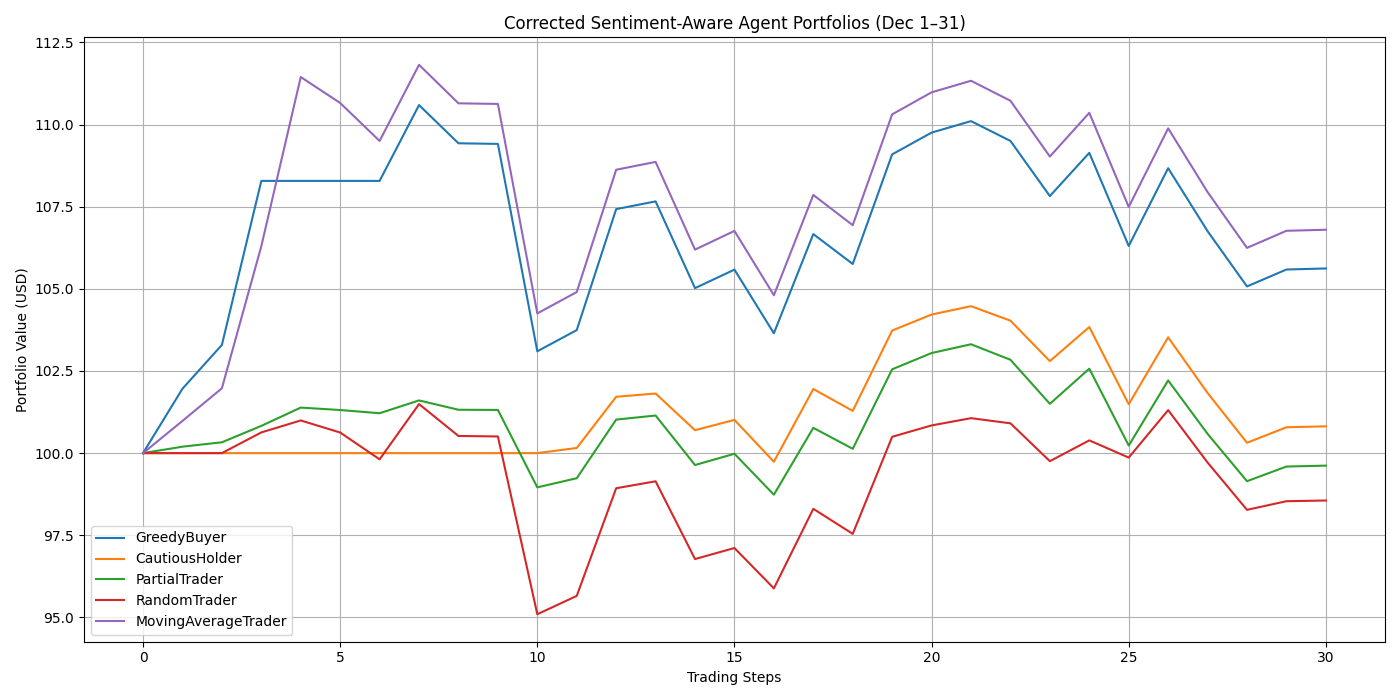
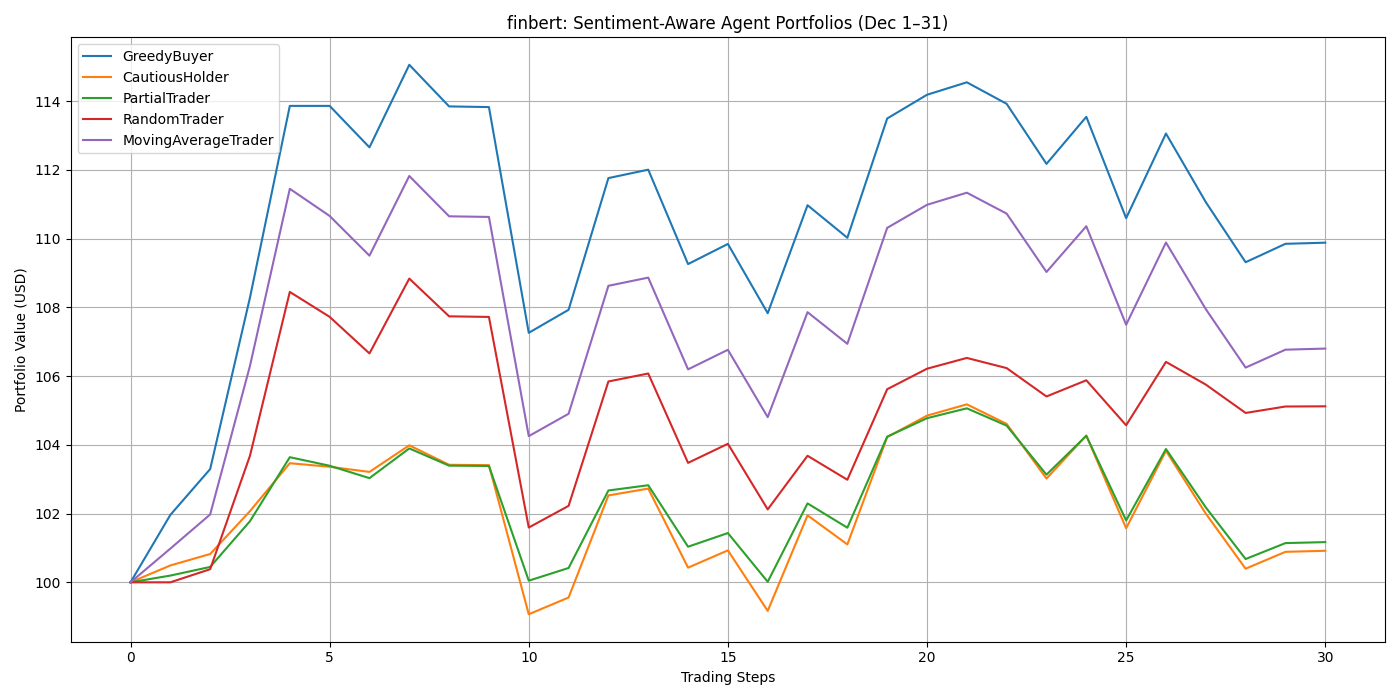
small updates to movingaveragetrader class in LSTM_FINAL_BTC and made testing easier for trader_sentiment_bot

diff --git a/On_Chain_Metrics/testing strategies/LSTM_FINAL_BTC.py b/On_Chain_Metrics/testing strategies/LSTM_FINAL_BTC.py
@@ -198,11 +198,16 @@ class RandomTrader(LSTMTradingAgent):
 
 class MovingAverageTrader(LSTMTradingAgent):
     def __init__(self, name, model, scaler_X, scaler_y, initial_cash=100,
-                 short_window=7, long_window=30):
+                 short_window=7, long_window=30, historical_prices=None):
         super().__init__(name, model, scaler_X, scaler_y, initial_cash)
         self.short_window = short_window
         self.long_window = long_window
         self.prices_seen = []
+        
+        # Pre-load historical prices if provided
+        if historical_prices is not None:
+            self.prices_seen = historical_prices.copy()
+            print(f"Pre-loaded {len(self.prices_seen)} historical prices for {name}")
 
     def act(self, X_window, price_now, current_date):
         p_hat = self.predict_price(X_window)
@@ -224,7 +229,6 @@ class MovingAverageTrader(LSTMTradingAgent):
                 self.cash += amt * price_now
                 self.crypto -= amt
         
-        # Debug output
         print(
             f"{self.name} | {current_date.date()} | "
             f"price_now={price_now:.2f} | "
@@ -233,6 +237,7 @@ class MovingAverageTrader(LSTMTradingAgent):
         )
         
         self.history.append(self.get_final_balance(price_now))
+
 
 # --- 5) LOAD MODEL AND SCALERS ---
 model = load_model(
@@ -251,13 +256,22 @@ scaler_y = joblib.load(
     r"\btc_scaler_y_4ChainMetrics.pkl"
 )
 
+# Find historical price range
+simulation_start_idx = np.where(df['time'].dt.date >= pd.to_datetime(start_date).date())[0][0]
+historical_end_idx = simulation_start_idx - 1
+historical_start_idx = max(0, historical_end_idx - 30)
+
+historical_prices = []
+if historical_start_idx < historical_end_idx:
+    historical_prices = prices[historical_start_idx:historical_end_idx].tolist()
+
 # --- 6) INITIATE AGENTS ---
 agents = [
     GreedyBuyer("GreedyBuyer", model, scaler_X, scaler_y),
     CautiousHolder("CautiousHolder", model, scaler_X, scaler_y),
     PartialTrader("PartialTrader", model, scaler_X, scaler_y),
     RandomTrader("RandomTrader", model, scaler_X, scaler_y),
-    MovingAverageTrader("MovingAverageTrader", model, scaler_X, scaler_y)
+    MovingAverageTrader("MovingAverageTrader", model, scaler_X, scaler_y, historical_prices=historical_prices)
 ]
 
 # --- 7) RUN BACKTEST WITH DEBUGGING ---

diff --git a/trading_agent/trader_sentiment_bot.py b/trading_agent/trader_sentiment_bot.py
@@ -11,9 +11,9 @@ import joblib
 START_DATE       = '2023-12-01'
 END_DATE         = '2023-12-31'
 TIME_STEPS       = 60    # look-back window for LSTM
-SENTIMENT_FOLDER = r"C:\Users\user\Desktop\Uni_work\year_3\Sem_2\DIA\project code\sentiment_data\google_search_data\sentiment_roberta\bitcoin"
+MODEL = "finbert"
+SENTIMENT_FOLDER = fr"C:\Users\user\Desktop\Uni_work\year_3\Sem_2\DIA\project code\sentiment_data\google_search_data\sentiment_{MODEL}\bitcoin"
 SENTIMENT_WEIGHT = 0.075
-
 # --- 1) LOAD RAW ON-CHAIN DATA (no sl---
 df_raw = pd.read_csv(
     r"C:\Users\user\Desktop\Uni_work\year_3\Sem_2\DIA\project code"
@@ -218,7 +218,7 @@ SentimentAwareMovingAverageTrader("MovingAverageTrader", model, scaler_X, scaler
 ]
 
 # --- 7) RUN BACKTEST ---
-print("Starting corrected sentiment-aware simulation...")
+print("Starting sentiment-aware simulation...")
 for t in range(TIME_STEPS, len(prices)):
     curr_date = dates.iloc[t].isoformat()
     if curr_date < START_DATE:
@@ -245,7 +245,7 @@ for agent in agents:
 plt.figure(figsize=(14, 7))
 for agent in agents:
     plt.plot(agent.history, label=agent.name)
-plt.title('Corrected Sentiment-Aware Agent Portfolios (Dec 1–31)')
+plt.title(f'{MODEL}: Sentiment-Aware Agent Portfolios (Dec 1–31)')
 plt.xlabel('Trading Steps')
 plt.ylabel('Portfolio Value (USD)')
 plt.legend()
